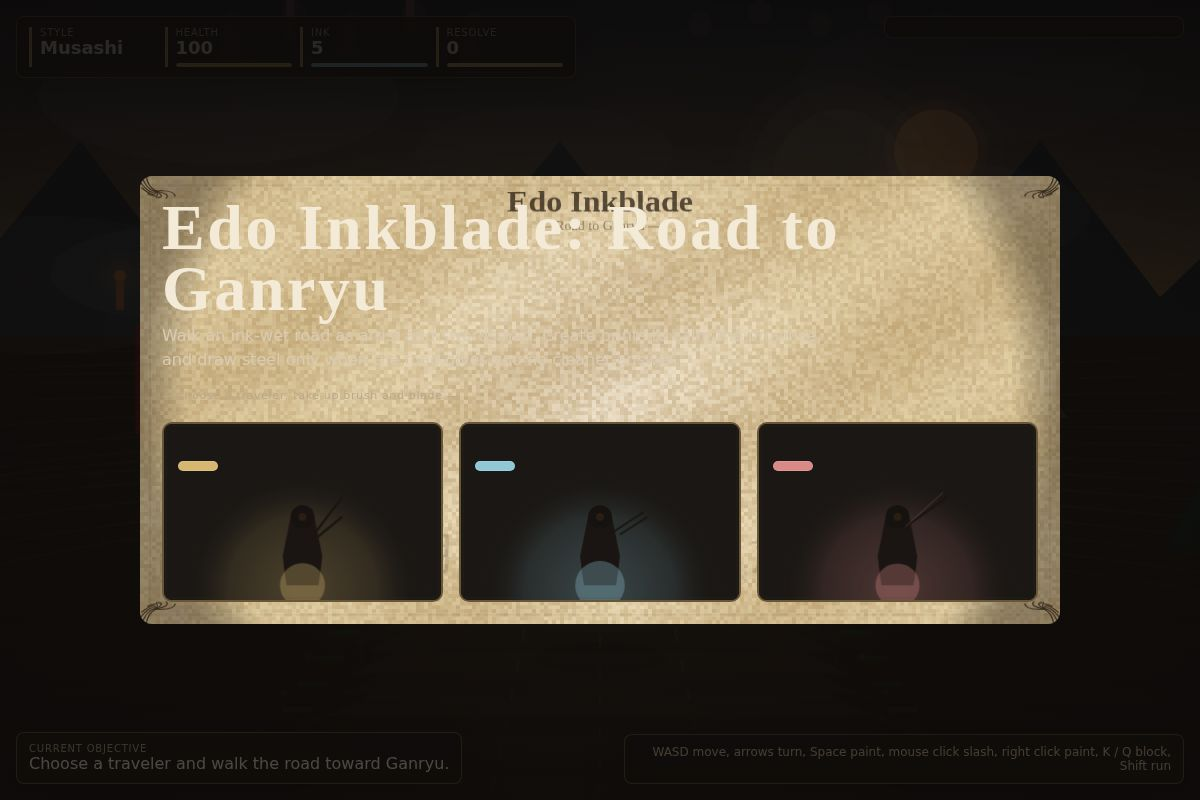
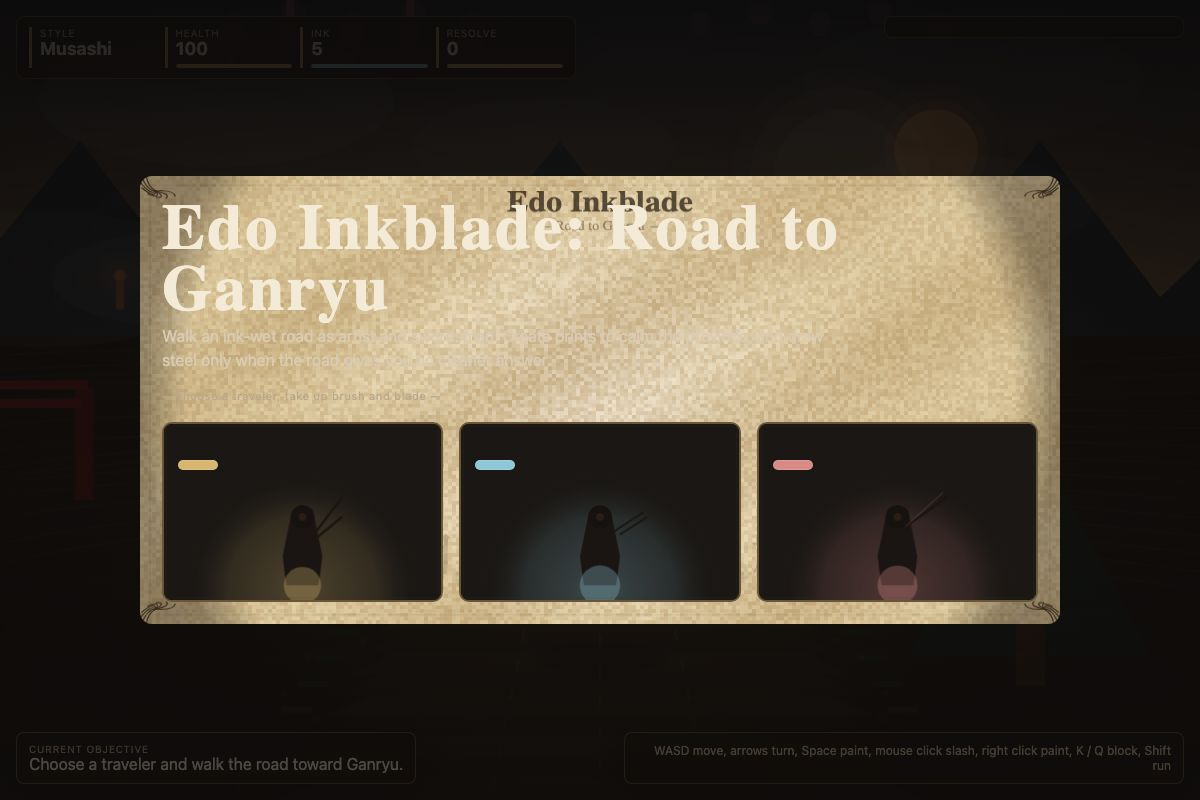
Fix headless audio fallback for screenshots
Keeps SFX calls safe when headless Chromium cannot create AudioContext and preserves tone access after audio initialization. Refreshes the current Edo Inkblade preview screenshots after a clean capture pass.

diff --git a/drops/edo-inkblade-ots/index.html b/drops/edo-inkblade-ots/index.html
@@ -186,7 +186,8 @@ const SPRITE_KEYS=["musashi","koeda","yoshino","chaser","prowler","duelist","vag
 SPRITE_KEYS.forEach(function(k){var img=new Image();img.src="assets/characters/"+k+".png";SPRITES[k]=img});
 const ENEMY_SPRITE_KEY={"dock ronin":"chaser","cedar bandit":"prowler","bridge duelist":"duelist","straw-hat vagrant":"vagrant","river-bank monk":"monk"};
 // Audio
-let audioCtx=null,sfx={};
+const noopAudio=function(){};
+let audioCtx=null,sfx={tone:noopAudio,slash:noopAudio,paint:noopAudio,block:noopAudio,hit:noopAudio,mark:noopAudio,death:noopAudio,inkRegen:noopAudio,victory:noopAudio};
 function initAudio(){if(audioCtx)return;try{audioCtx=new (window.AudioContext||window.webkitAudioContext)()}catch(e){return};
   function tone(f,d,t,g){var o=audioCtx.createOscillator();o.type=t;o.frequency.value=f;
     var gn=audioCtx.createGain();gn.gain.value=g||.3;gn.gain.setValueAtTime(g||.3,audioCtx.currentTime);
@@ -250,7 +251,7 @@ function initAudio(){if(audioCtx)return;try{audioCtx=new (window.AudioContext||w
     gg.connect(audioCtx.destination);amb.ganryu.g=gg;
   }
   // SFX — rebuilt with musical character
-  sfx={slash:function(){
+  sfx={tone:tone,slash:function(){
     var so=audioCtx.createOscillator();so.type="sawtooth";so.frequency.value=180;
     var sg=audioCtx.createGain();sg.gain.setValueAtTime(.12,audioCtx.currentTime);sg.gain.exponentialRampToValueAtTime(0,audioCtx.currentTime+.12);
     var sf=audioCtx.createBiquadFilter();sf.type="bandpass";sf.frequency.value=4000;sf.Q.value=40;so.connect(sf);sf.connect(sg);sg.connect(audioCtx.destination);
